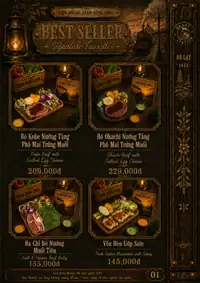
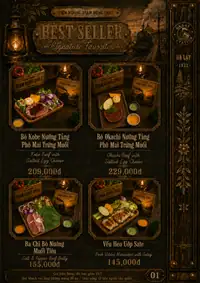
fix(menu): thay anh 4 trang menu (2, 5, 11, 12) theo ban chup moi cua quan
Sep Tuan gui anh moi cho trang Best Seller, BBQ nuong tai ban va 2 trang
Mon Lai Rai — anh mon dep hon ban cu, bo cuc va gia giu nguyen.

Da doi chieu 12 mon tren 4 trang voi data/menu-data.js: gia khop tuyet doi
(Kobe 209K, Okachi 229K, Ba chi bo 155K, Veu heo sate 145K, Bo nuong cuc 159K,
Bo nuong xieng 162K, Ba chi heo ngu vi 132K, Dau hu non 99K, Xuc xich 20K,
Bo luc lac 160K, Sun ga chien mam 145K, Veu heo chay toi 155K) — khong phai
sua menu-data.js, JSON-LD va anh van noi cung mot gia.

Khong bump CACHE_NAME: URL anh mang van tay ?v=<md5>, doi anh la URL doi theo.

diff --git a/menu.html b/menu.html
@@ -1199,8 +1199,8 @@
                     <figcaption class="flip-page-caption">Trang 1/26 — Bìa</figcaption>
                 </figure>
                 <figure class="flip-page" data-page="2" data-group="bestseller" data-group-label="Best Seller" data-group-i18n="flip.group.bestseller">
-                    <img src="assets/menu-pages/menu-quan-nuong-da-lat-02-best-seller-bo-kobe-pho-mai-trung-muoi-1000.webp?v=12da854a"
-                         srcset="assets/menu-pages/menu-quan-nuong-da-lat-02-best-seller-bo-kobe-pho-mai-trung-muoi-560.webp?v=274fefba 560w, assets/menu-pages/menu-quan-nuong-da-lat-02-best-seller-bo-kobe-pho-mai-trung-muoi-1000.webp?v=12da854a 1000w"
+                    <img src="assets/menu-pages/menu-quan-nuong-da-lat-02-best-seller-bo-kobe-pho-mai-trung-muoi-1000.webp?v=6f861809"
+                         srcset="assets/menu-pages/menu-quan-nuong-da-lat-02-best-seller-bo-kobe-pho-mai-trung-muoi-560.webp?v=acb7df73 560w, assets/menu-pages/menu-quan-nuong-da-lat-02-best-seller-bo-kobe-pho-mai-trung-muoi-1000.webp?v=6f861809 1000w"
                          sizes="(min-width: 900px) 46vw, 92vw"
                          width="1055" height="1491"
                          alt="Trang best seller menu quán nướng Đà Lạt: bò Kobe nướng tảng phô mai trứng muối, bò Okachi nướng tảng, ba chỉ bò nướng muối tiêu, vếu heo ướp sate"
@@ -1226,8 +1226,8 @@
                     <figcaption class="flip-page-caption">Trang 4/26 — Best Seller</figcaption>
                 </figure>
                 <figure class="flip-page" data-page="5" data-group="nuong" data-group-label="BBQ Nướng Tại Bàn" data-group-i18n="flip.group.bbq">
-                    <img src="assets/menu-pages/menu-quan-nuong-da-lat-05-bbq-nuong-tai-ban-bo-nuong-cuc-bo-xien-1000.webp?v=800d3fe3"
-                         srcset="assets/menu-pages/menu-quan-nuong-da-lat-05-bbq-nuong-tai-ban-bo-nuong-cuc-bo-xien-560.webp?v=161923b9 560w, assets/menu-pages/menu-quan-nuong-da-lat-05-bbq-nuong-tai-ban-bo-nuong-cuc-bo-xien-1000.webp?v=800d3fe3 1000w"
+                    <img src="assets/menu-pages/menu-quan-nuong-da-lat-05-bbq-nuong-tai-ban-bo-nuong-cuc-bo-xien-1000.webp?v=a53b6cc9"
+                         srcset="assets/menu-pages/menu-quan-nuong-da-lat-05-bbq-nuong-tai-ban-bo-nuong-cuc-bo-xien-560.webp?v=15422727 560w, assets/menu-pages/menu-quan-nuong-da-lat-05-bbq-nuong-tai-ban-bo-nuong-cuc-bo-xien-1000.webp?v=a53b6cc9 1000w"
                          sizes="(min-width: 900px) 46vw, 92vw"
                          width="1055" height="1491"
                          alt="Thực đơn BBQ nướng tại bàn Đà Lạt: bò nướng cục, bò nướng xiên, ba chỉ heo nướng ngũ vị"
@@ -1280,17 +1280,17 @@
                     <figcaption class="flip-page-caption">Trang 10/26 — Lẩu</figcaption>
                 </figure>
                 <figure class="flip-page" data-page="11" data-group="laurai" data-group-label="Món Lai Rai" data-group-i18n="flip.group.snacks">
-                    <img src="assets/menu-pages/menu-quan-nuong-da-lat-11-mon-lai-rai-dau-hu-non-bo-luc-lac-1000.webp?v=378ac085"
-                         srcset="assets/menu-pages/menu-quan-nuong-da-lat-11-mon-lai-rai-dau-hu-non-bo-luc-lac-560.webp?v=eb2302a9 560w, assets/menu-pages/menu-quan-nuong-da-lat-11-mon-lai-rai-dau-hu-non-bo-luc-lac-1000.webp?v=378ac085 1000w"
+                    <img src="assets/menu-pages/menu-quan-nuong-da-lat-11-mon-lai-rai-dau-hu-non-bo-luc-lac-1000.webp?v=092cba73"
+                         srcset="assets/menu-pages/menu-quan-nuong-da-lat-11-mon-lai-rai-dau-hu-non-bo-luc-lac-560.webp?v=b15fd825 560w, assets/menu-pages/menu-quan-nuong-da-lat-11-mon-lai-rai-dau-hu-non-bo-luc-lac-1000.webp?v=092cba73 1000w"
                          sizes="(min-width: 900px) 46vw, 92vw"
-                         width="1055" height="1491"
+                         width="1054" height="1492"
                          alt="Món lai rai nhâm nhi: đậu hũ non chiên chà bông, xúc xích Đức nướng, bò lúc lắc"
                          loading="lazy" decoding="async">
                     <figcaption class="flip-page-caption">Trang 11/26 — Món Lai Rai</figcaption>
                 </figure>
                 <figure class="flip-page" data-page="12" data-group="laurai" data-group-label="Món Lai Rai" data-group-i18n="flip.group.snacks">
-                    <img src="assets/menu-pages/menu-quan-nuong-da-lat-12-mon-lai-rai-sun-ga-chien-mam-vu-heo-chay-toi-1000.webp?v=e5ca2d12"
-                         srcset="assets/menu-pages/menu-quan-nuong-da-lat-12-mon-lai-rai-sun-ga-chien-mam-vu-heo-chay-toi-560.webp?v=f53d71d4 560w, assets/menu-pages/menu-quan-nuong-da-lat-12-mon-lai-rai-sun-ga-chien-mam-vu-heo-chay-toi-1000.webp?v=e5ca2d12 1000w"
+                    <img src="assets/menu-pages/menu-quan-nuong-da-lat-12-mon-lai-rai-sun-ga-chien-mam-vu-heo-chay-toi-1000.webp?v=bc74137d"
+                         srcset="assets/menu-pages/menu-quan-nuong-da-lat-12-mon-lai-rai-sun-ga-chien-mam-vu-heo-chay-toi-560.webp?v=0b43d2e5 560w, assets/menu-pages/menu-quan-nuong-da-lat-12-mon-lai-rai-sun-ga-chien-mam-vu-heo-chay-toi-1000.webp?v=bc74137d 1000w"
                          sizes="(min-width: 900px) 46vw, 92vw"
                          width="1055" height="1491"
                          alt="Món lai rai: sụn gà chiên mắm, vếu heo cháy tỏi"
